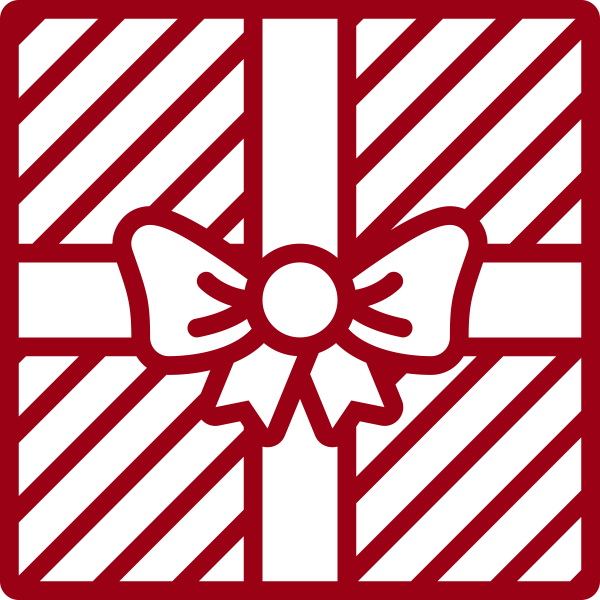
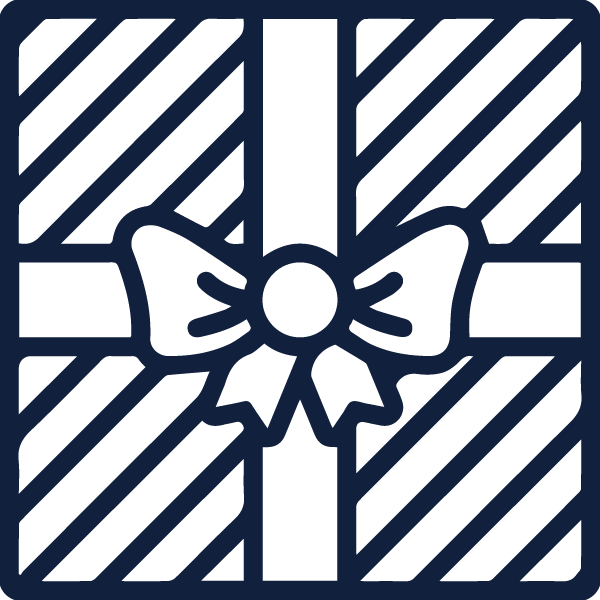
Add extra father's day styling

diff --git a/idv/templates/giftwrap/customer_request.html b/idv/templates/giftwrap/customer_request.html
@@ -44,7 +44,7 @@
                {% if special_date_name %}
                   <div class="panel panel-default special-delivery-options">
                     <div class="panel-body">
-                      <img src="{% static "img/lwi-parcel-icon.png" %}"/>
+                      <img src="{% static "img/lwi-father-parcel-icon.png" %}"/>
                       <p>When would you like your gift delivered?</p>
                       <div class="form-group">
                         <input type="radio" name="deliver_by_special_date" value="Before" class="radio-inline" checked="checked">

diff --git a/idv/static/css/style.css b/idv/static/css/style.css
@@ -256,7 +256,7 @@ h4 {
 /* Special Delivery Options */
 
 .special-delivery-options {
-  background: #de4471;
+  background: #304182;
   color: #fff;
   border: none;
   box-shadow: none;
